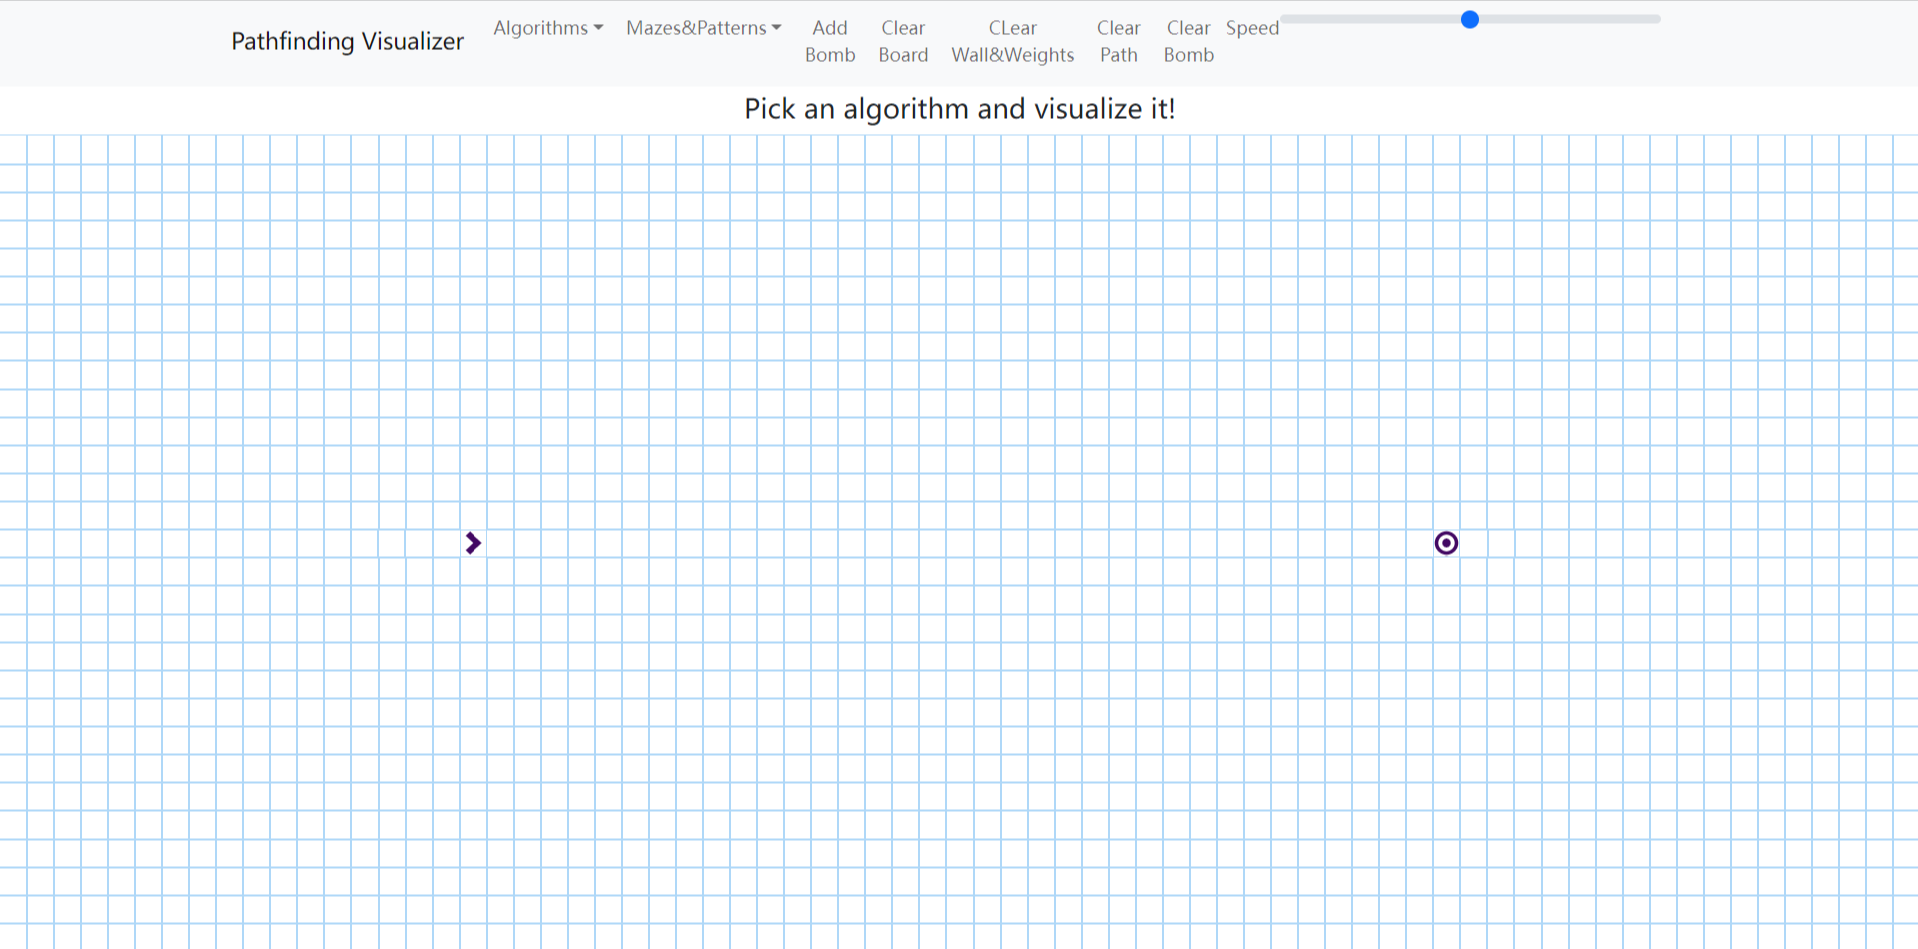
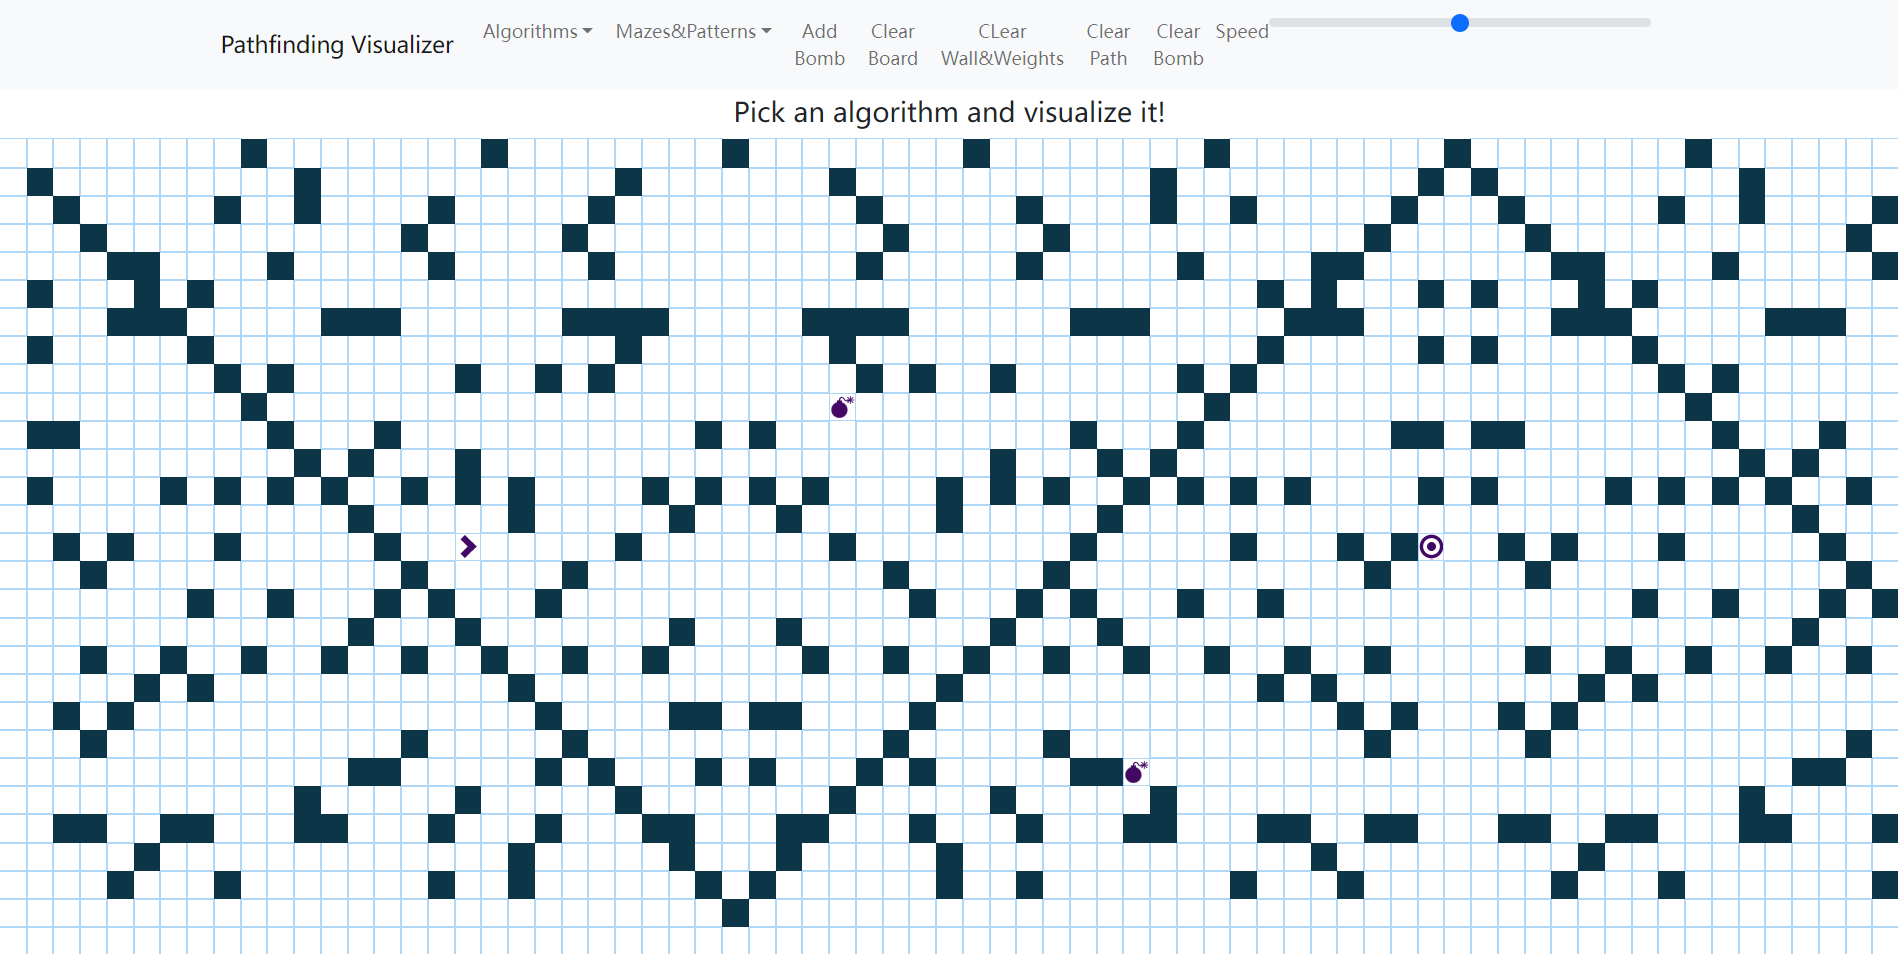
add the second project

Changed region(s): [[0.0, 0.0, 1.0, 1.0]]

diff --git a/src/javascript/World/Sections/ProjectsSection.js b/src/javascript/World/Sections/ProjectsSection.js
@@ -7,6 +7,10 @@ import projectsSmartPortfolioAdvisorBSources from '../../../models/projects/Smar
 import projectsSmartPortfolioAdvisorCSources from '../../../models/projects/SmartPortfolioAdvisor/slideC.jpg'
 import projectsSmartPortfolioAdvisorDSources from '../../../models/projects/SmartPortfolioAdvisor/slideD.jpg'
 
+import projectsPathfindingVisualizerASources from '../../../models/projects/PathfindingVisualizer/SlideA.png'
+import projectsPathfindingVisualizerBSources from '../../../models/projects/PathfindingVisualizer/SlideB.png'
+import projectsPathfindingVisualizerCSources from '../../../models/projects/PathfindingVisualizer/SlideC.png'
+
 import projectsThreejsJourneySlideASources from '../../../models/projects/threejsJourney/slideA.jpg'
 import projectsThreejsJourneySlideBSources from '../../../models/projects/threejsJourney/slideB.jpg'
 import projectsThreejsJourneySlideCSources from '../../../models/projects/threejsJourney/slideC.jpg'
@@ -118,7 +122,31 @@ export default class ProjectsSection
     {
         this.list = [
             {
-                name: 'Smart portfolio Advisor',
+                name: 'Smart Portfolio Advisor',
+                imageSources:
+                [
+                    projectsPathfindingVisualizerASources,
+                    projectsPathfindingVisualizerBSources,
+                    projectsPathfindingVisualizerCSources
+                ],
+                floorTexture: this.resources.items.projectsPathfindingVisualizerFloorTexture,
+                link:
+                {
+                    href: 'https://github.com/princepride/react-pathfinding',
+                    x: - 4.8,
+                    y: - 4,
+                    halfExtents:
+                    {
+                        x: 3.2,
+                        y: 1.5
+                    }
+                },
+                distinctions:
+                [
+                ]
+            },
+            {
+                name: 'Path Finding Visualizer',
                 imageSources:
                 [
                     projectsSmartPortfolioAdvisorASources,

diff --git a/src/javascript/Resources.js b/src/javascript/Resources.js
@@ -109,7 +109,7 @@ import projectsKepplerFloorSource from '../models/projects/keppler/floorTexture.
 
 //My own floor texture
 import projectsSmartPortfolioAdvisorSource from '../models/projects/SmartPortfolioAdvisor/floorTexture.png'
-
+import projectsPathfindingVisualizerSource from '../models/projects/PathfindingVisualizer/floorTexture.png'
 // Information
 import informationStaticBaseSource from '../models/information/static/base.glb'
 import informationStaticCollisionSource from '../models/information/static/collision.glb'
@@ -226,6 +226,7 @@ export default class Resources extends EventEmitter
         this.loader.load([
             //My own project
             { name: 'projectsSmartPortfolioAdvisorFloor', source: projectsSmartPortfolioAdvisorSource, type: 'texture' },
+            { name: 'projectsPathfindingVisualizerFloor', source: projectsPathfindingVisualizerSource, type: 'texture' },
             // Matcaps
             { name: 'matcapBeige', source: matcapBeigeSource, type: 'texture' },
             { name: 'matcapBlack', source: matcapBlackSource, type: 'texture' },
